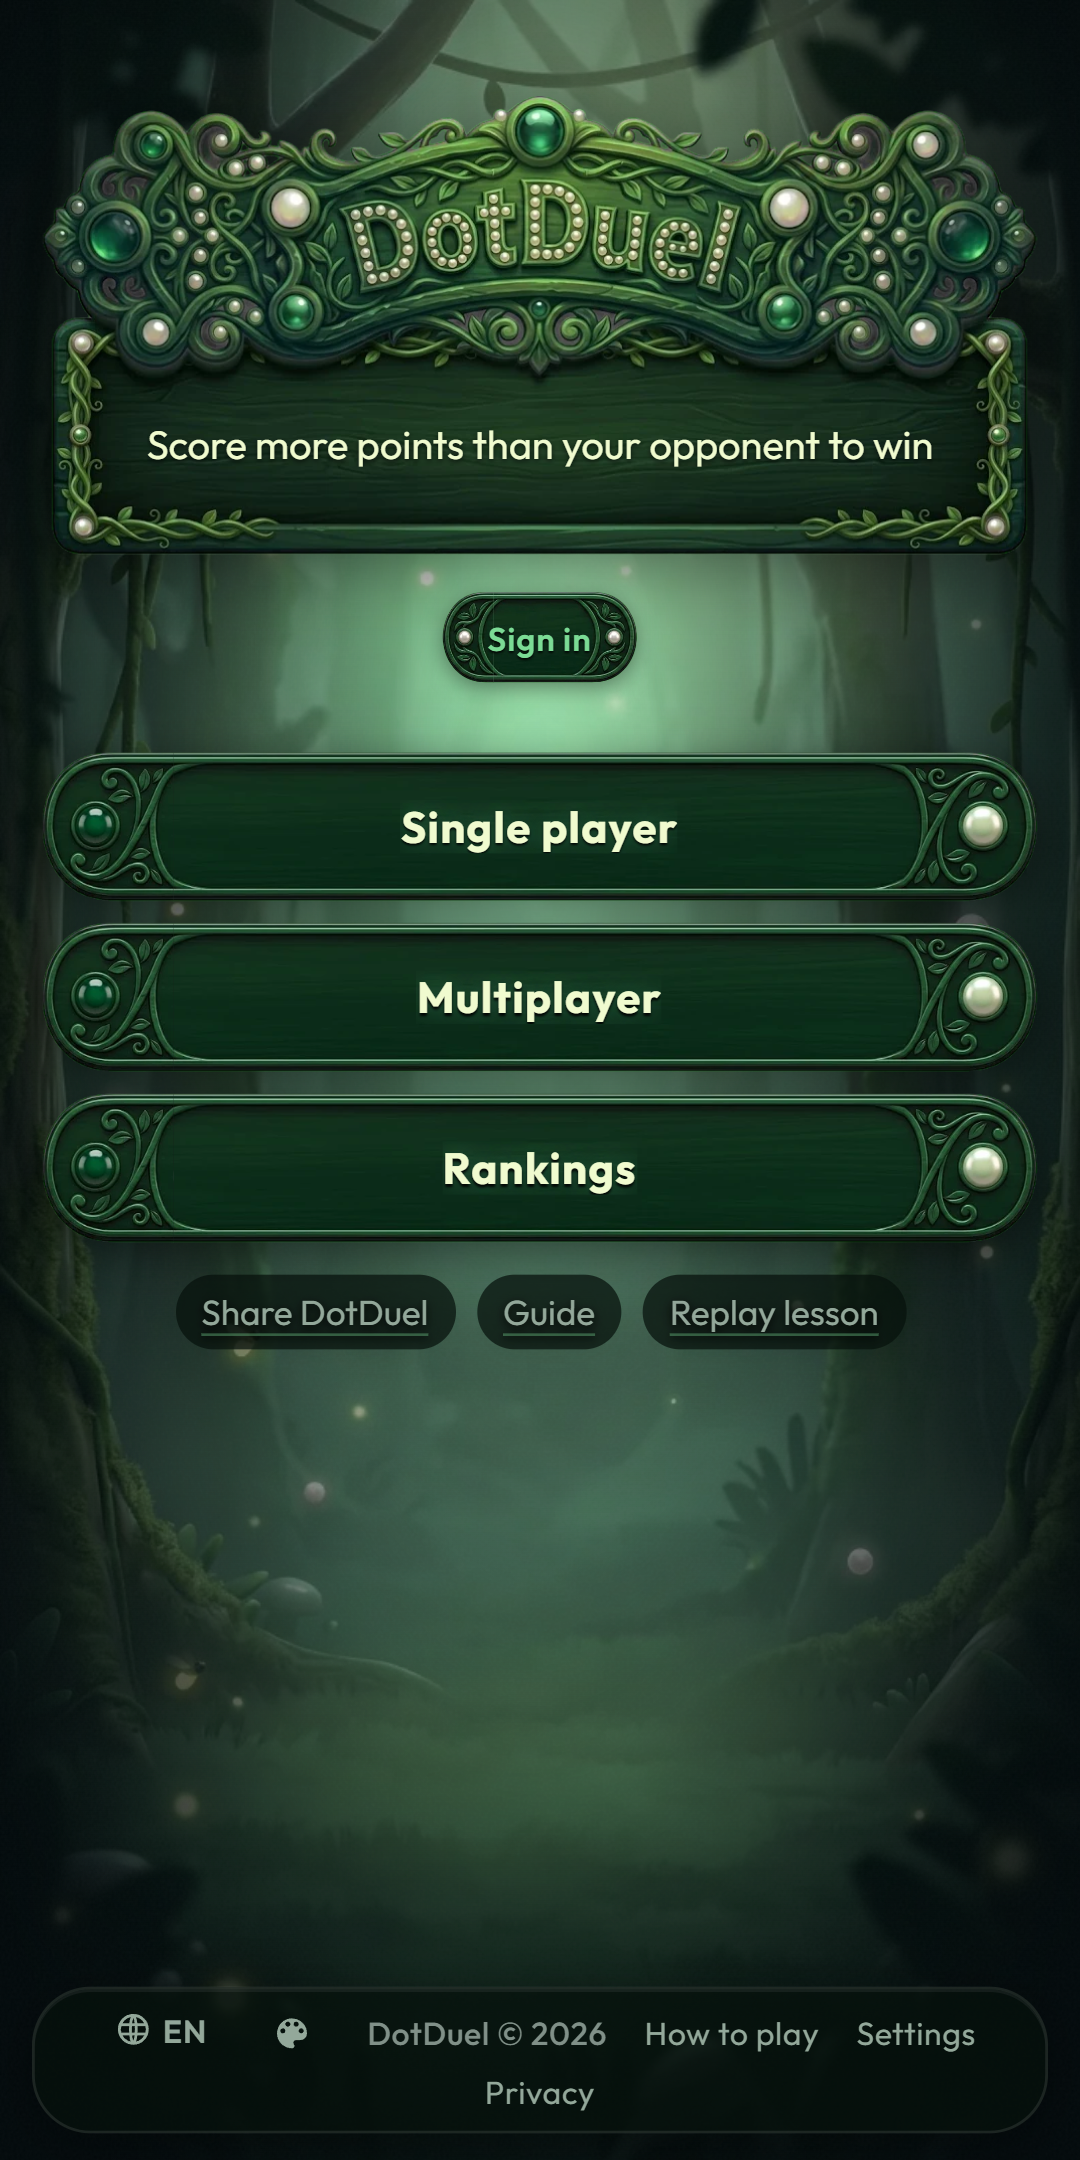
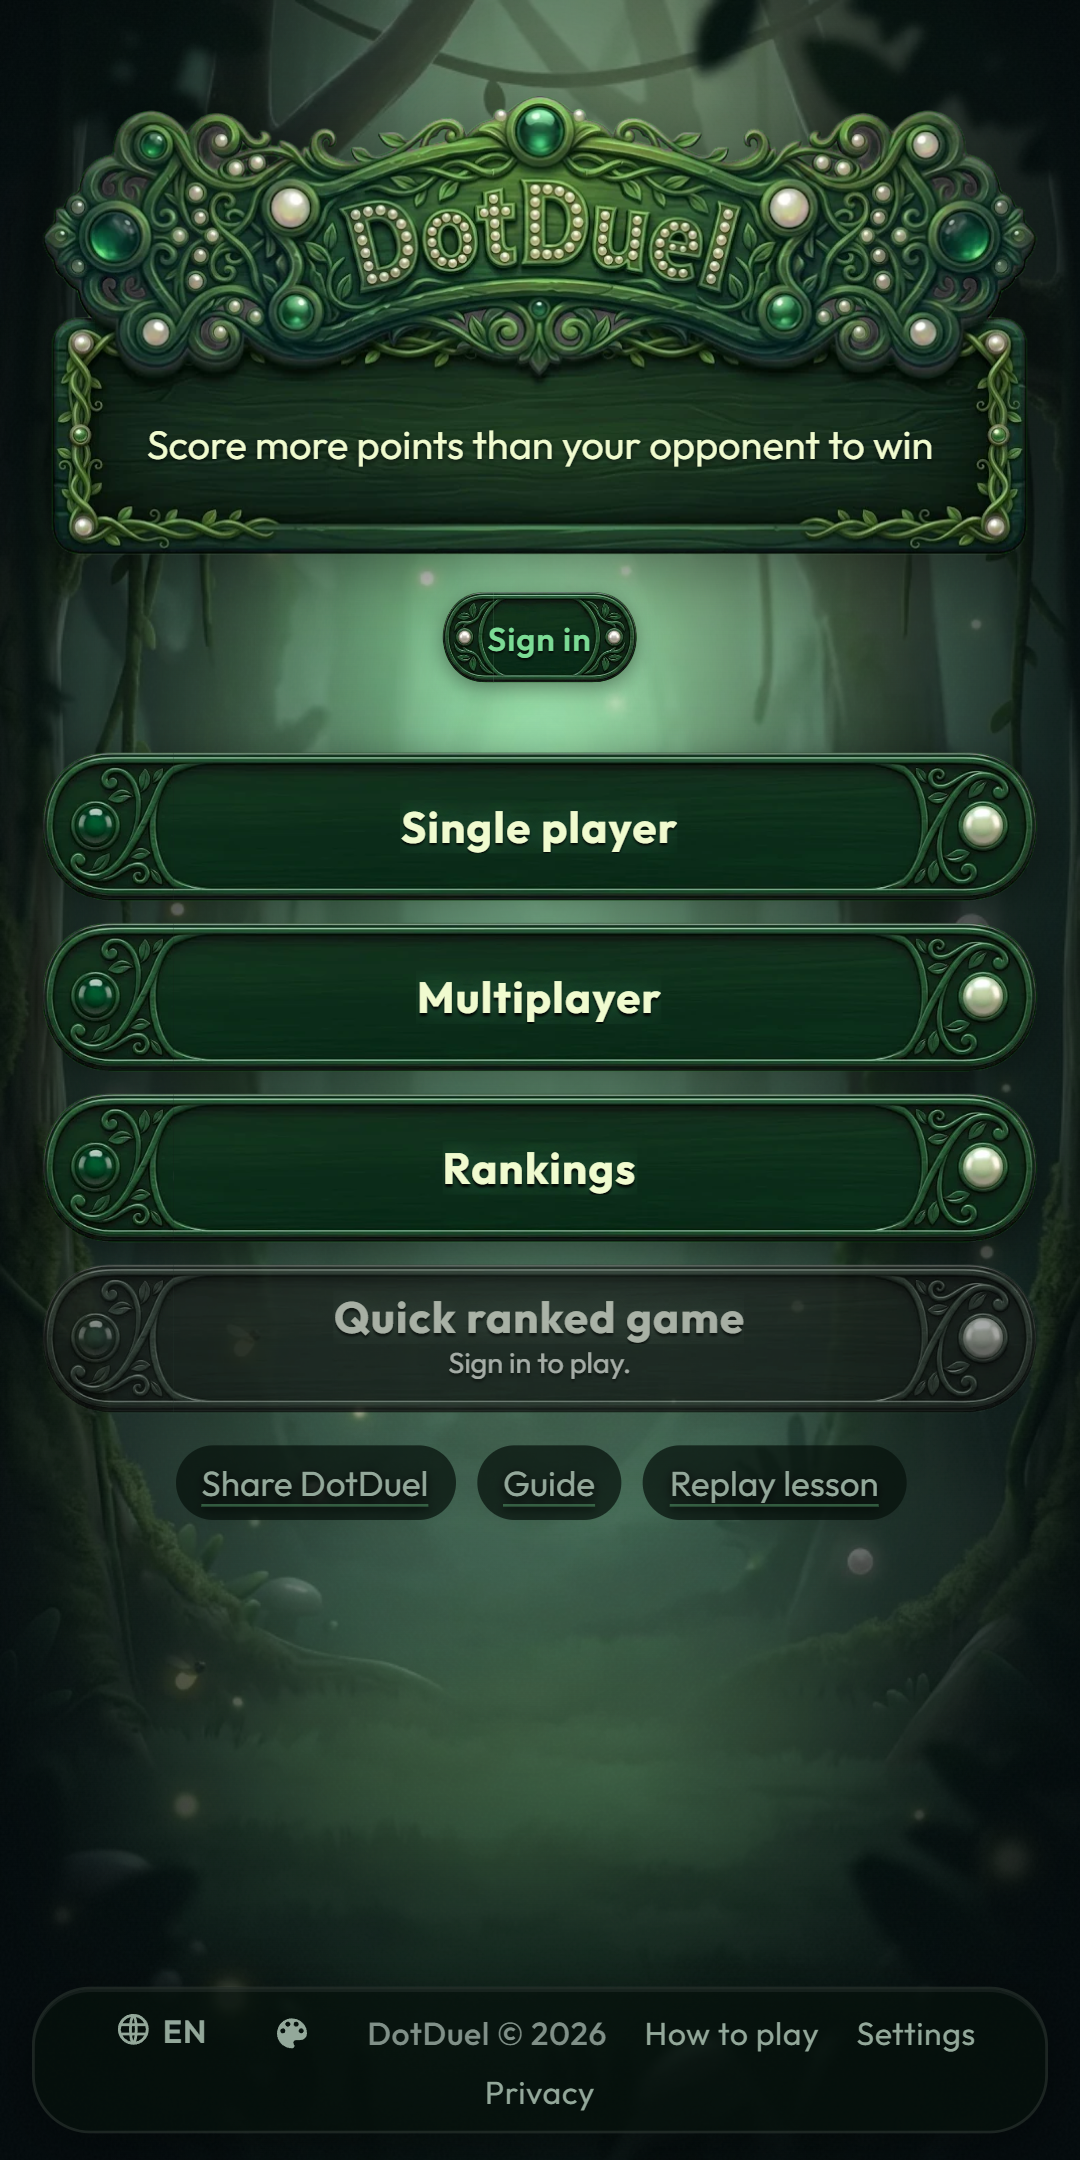
Android 1.9 (versionCode 11): changelog for Alpha 0.4.27.0, new home screenshots
Claude-Session: https://claude.ai/code/session_01SRCPYjePGwPkXSLpQGR1Tr

Changed region(s): [[0.1528, 0.5583, 0.825, 0.7134], [0.0611, 0.5894, 0.1528, 0.6514], [0.8556, 0.5894, 0.9472, 0.6514]]

diff --git a/src/i18n/es.ts b/src/i18n/es.ts
@@ -290,6 +290,13 @@ export const es: Messages = {
     done: 'Hecho',
     months: ['ene.', 'feb.', 'mar.', 'abr.', 'may.', 'jun.', 'jul.', 'ago.', 'sep.', 'oct.', 'nov.', 'dic.'],
     entries: {
+      'Alpha 0.4.27.0': {
+        changes: [
+          "Nuevo botón «Partida clasificatoria rápida» en la pantalla de inicio: un toque inicia la búsqueda de una partida clasificatoria de 3 minutos.",
+          "Las figuras y los niveles bloqueados ahora indican cómo desbloquearlos.",
+          "El juego carga más rápido.",
+        ],
+      },
       'Alpha 0.4.26.3': {
         changes: [
           "Por ahora, sin anuncios.",

diff --git a/src/i18n/lt.ts b/src/i18n/lt.ts
@@ -301,6 +301,13 @@ export const lt: Messages = {
     done: 'Atlikta',
     months: ['saus.', 'vas.', 'kov.', 'bal.', 'geg.', 'birž.', 'liep.', 'rugp.', 'rugs.', 'spal.', 'lapkr.', 'gruod.'],
     entries: {
+      'Alpha 0.4.27.0': {
+        changes: [
+          "Naujas mygtukas „Greitas reitingo žaidimas“ pradžios ekrane: vienu paspaudimu pradedama 3 minučių reitingo žaidimo paieška.",
+          "Užrakintos figūros ir lygiai dabar parodo, kaip juos atrakinti.",
+          "Žaidimas įsikrauna greičiau.",
+        ],
+      },
       'Alpha 0.4.26.3': {
         changes: [
           "Kol kas jokių reklamų.",

diff --git a/src/changelog.ts b/src/changelog.ts
@@ -30,6 +30,24 @@ export interface ChangelogEntry {
 
 export const CHANGELOG: ChangelogEntry[] = [
   {
+    version: 'Alpha 0.4.27.0',
+    date: '2026-11-14',
+    changes: [
+      {
+        kind: 'added',
+        text: 'New Quick ranked game button on the home screen: one tap starts a 3-minute ranked search.',
+      },
+      {
+        kind: 'changed',
+        text: 'Locked shapes and levels now tell you how to unlock them.',
+      },
+      {
+        kind: 'changed',
+        text: 'The game loads faster.',
+      },
+    ],
+  },
+  {
     version: 'Alpha 0.4.26.4',
     date: '2026-11-09',
     changes: [

diff --git a/src/i18n/pt.ts b/src/i18n/pt.ts
@@ -290,6 +290,13 @@ export const pt: Messages = {
     done: 'Concluído',
     months: ['jan.', 'fev.', 'mar.', 'abr.', 'mai.', 'jun.', 'jul.', 'ago.', 'set.', 'out.', 'nov.', 'dez.'],
     entries: {
+      'Alpha 0.4.27.0': {
+        changes: [
+          "Novo botão «Partida ranqueada rápida» no ecrã inicial: um toque inicia a procura de uma partida ranqueada de 3 minutos.",
+          "As formas e os níveis bloqueados agora indicam como desbloqueá-los.",
+          "O jogo carrega mais depressa.",
+        ],
+      },
       'Alpha 0.4.26.3': {
         changes: [
           "Por enquanto, sem anúncios.",

diff --git a/src/i18n/cs.ts b/src/i18n/cs.ts
@@ -300,6 +300,13 @@ export const cs: Messages = {
     done: 'Hotovo',
     months: ['led', 'úno', 'bře', 'dub', 'kvě', 'čvn', 'čvc', 'srp', 'zář', 'říj', 'lis', 'pro'],
     entries: {
+      'Alpha 0.4.27.0': {
+        changes: [
+          "Nové tlačítko „Rychlá hodnocená hra“ na úvodní obrazovce: jedním klepnutím spustíte hledání 3minutové hodnocené hry.",
+          "Zamčené tvary a úrovně nyní ukazují, jak je odemknout.",
+          "Hra se načítá rychleji.",
+        ],
+      },
       'Alpha 0.4.26.3': {
         changes: [
           "Zatím žádné reklamy.",

diff --git a/src/i18n/pl.ts b/src/i18n/pl.ts
@@ -302,6 +302,13 @@ export const pl: Messages = {
     done: 'Gotowe',
     months: ['sty', 'lut', 'mar', 'kwi', 'maj', 'cze', 'lip', 'sie', 'wrz', 'paź', 'lis', 'gru'],
     entries: {
+      'Alpha 0.4.27.0': {
+        changes: [
+          "Nowy przycisk „Szybka gra rankingowa” na ekranie głównym: jedno dotknięcie rozpoczyna szukanie 3-minutowej gry rankingowej.",
+          "Zablokowane kształty i poziomy pokazują teraz, jak je odblokować.",
+          "Gra wczytuje się szybciej.",
+        ],
+      },
       'Alpha 0.4.26.3': {
         changes: [
           "Na razie bez reklam.",

diff --git a/CHANGELOG.md b/CHANGELOG.md
@@ -3,7 +3,7 @@
 All notable changes to DotDuel will be documented in this file. Format follows
 [Keep a Changelog](https://keepachangelog.com/en/1.1.0/).
 
-## [0.4.27.0] - Unreleased
+## [0.4.27.0] - 2026-11-13
 
 ### Added
 
@@ -34,7 +34,7 @@ All notable changes to DotDuel will be documented in this file. Format follows
   `20261113000000_daily_score_guard.sql` rejects scores outside 0..board total
   (stopgap; server-side replay is the full fix). NOT yet applied.
 
-## [0.4.26.5] - Unreleased
+## [0.4.26.5] - 2026-11-13 (shipped with 0.4.27.0)
 
 ### Fixed
 
